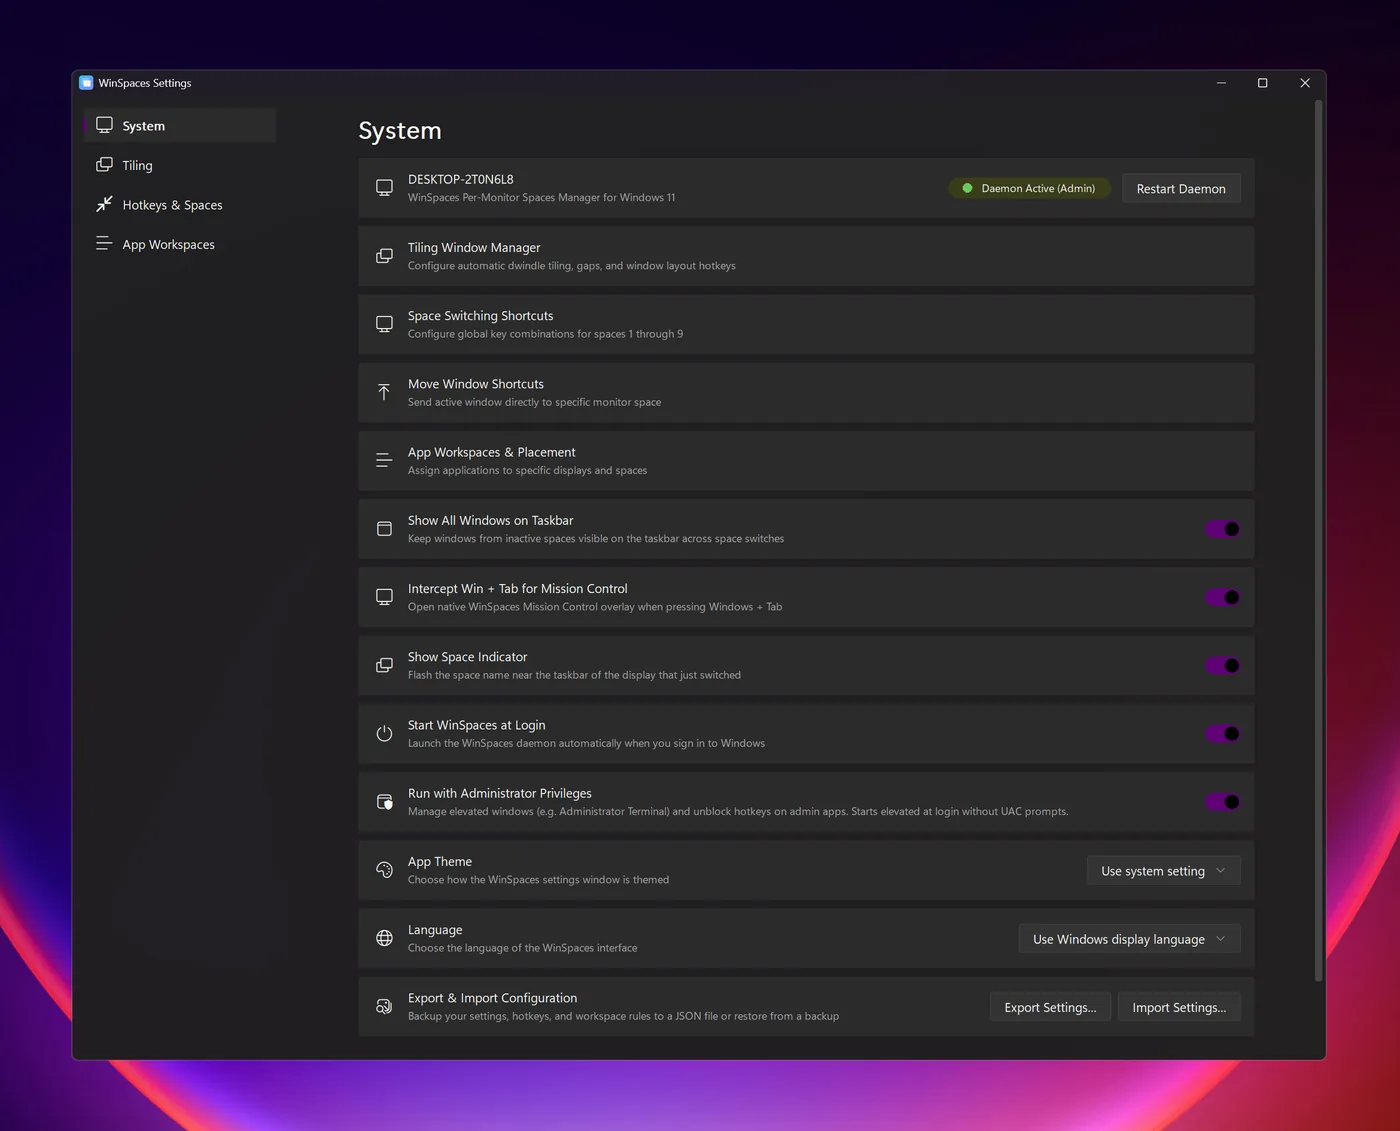
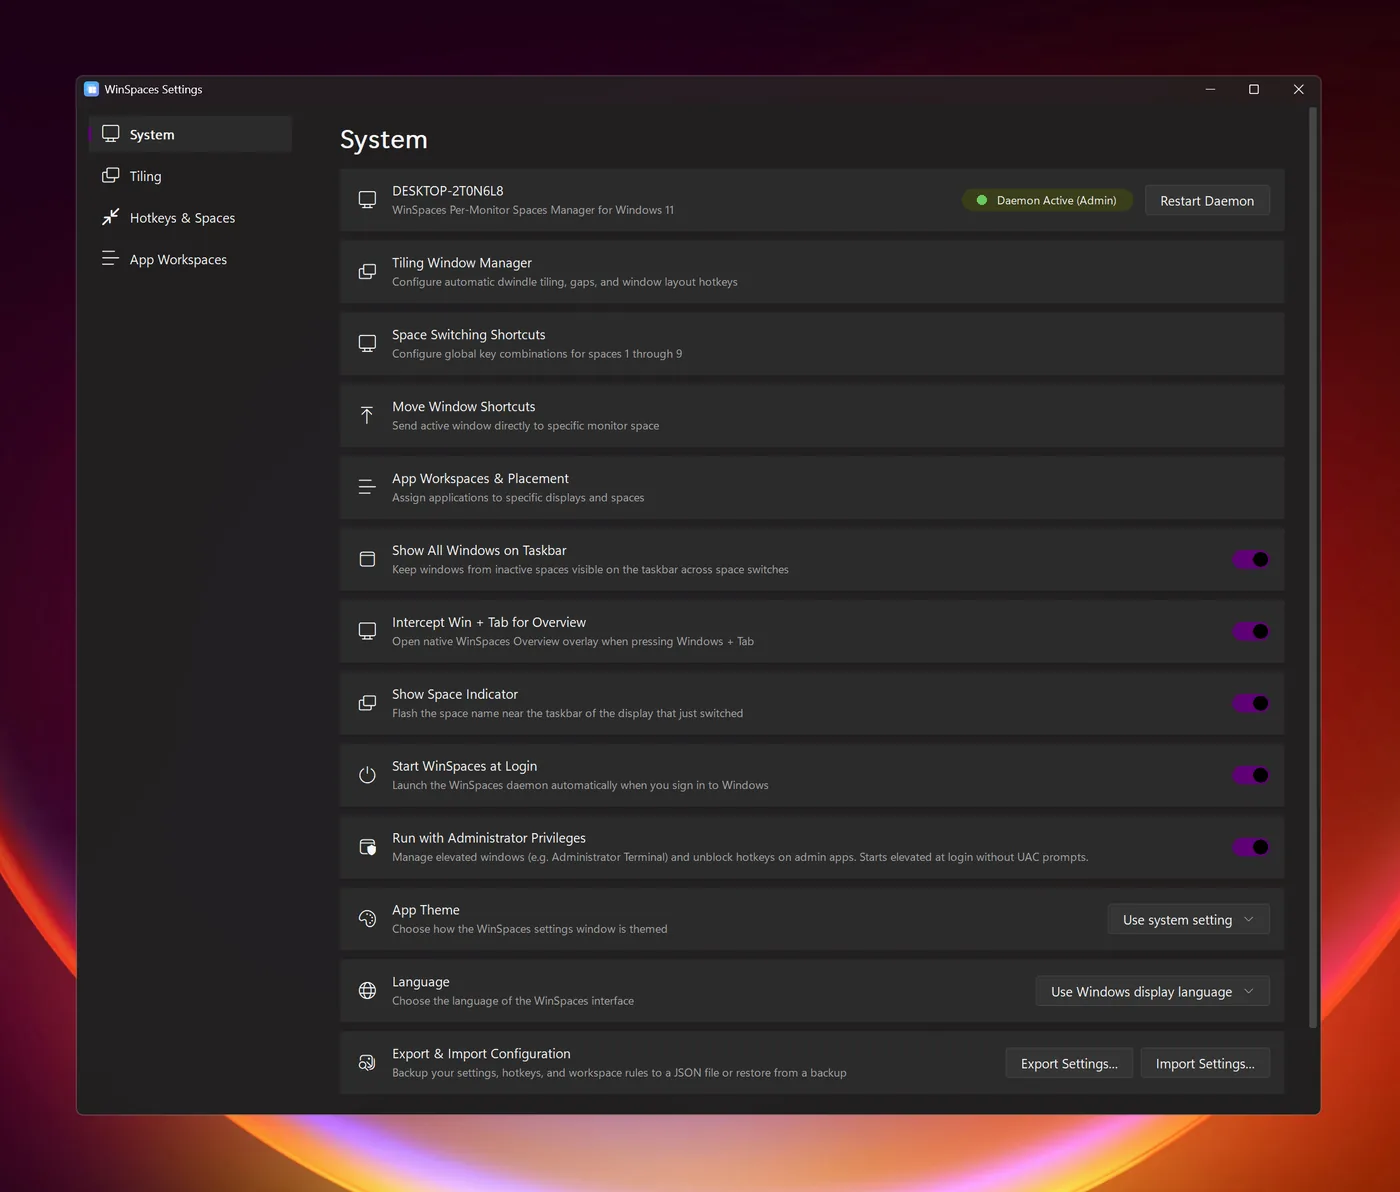
docs(site): update the settings screenshot for the Overview wording

diff --git a/site/index.html b/site/index.html
@@ -196,7 +196,7 @@
             <figcaption>Dynamic tiling: windows fill the display in a dwindle spiral with the gaps you set. Toggle it with <kbd>Ctrl+Alt+Shift+T</kbd>; float any window out with <kbd>Ctrl+Alt+Shift+F</kbd>.</figcaption>
           </figure>
           <figure class="shot">
-            <img src="img/settings.webp" srcset="img/settings.webp 1400w, img/settings@2x.webp 2340w" sizes="(max-width: 700px) 94vw, 640px" data-full="img/settings@2x.webp" width="1400" height="1131" class="zoomable" tabindex="0" role="button" aria-label="Open full size" alt="The WinSpaces settings window, System page, with Mica backdrop" loading="lazy">
+            <img src="img/settings.webp" srcset="img/settings.webp 1400w, img/settings@2x.webp 2220w" sizes="(max-width: 700px) 94vw, 640px" data-full="img/settings@2x.webp" width="1400" height="1192" class="zoomable" tabindex="0" role="button" aria-label="Open full size" alt="The WinSpaces settings window, System page, with Mica backdrop" loading="lazy">
             <figcaption>Settings: a hand-drawn Windows 11 window with Mica, light and dark themes, and a hotkey recorder — its own process, so the daemon never stalls.</figcaption>
           </figure>
         </div>
